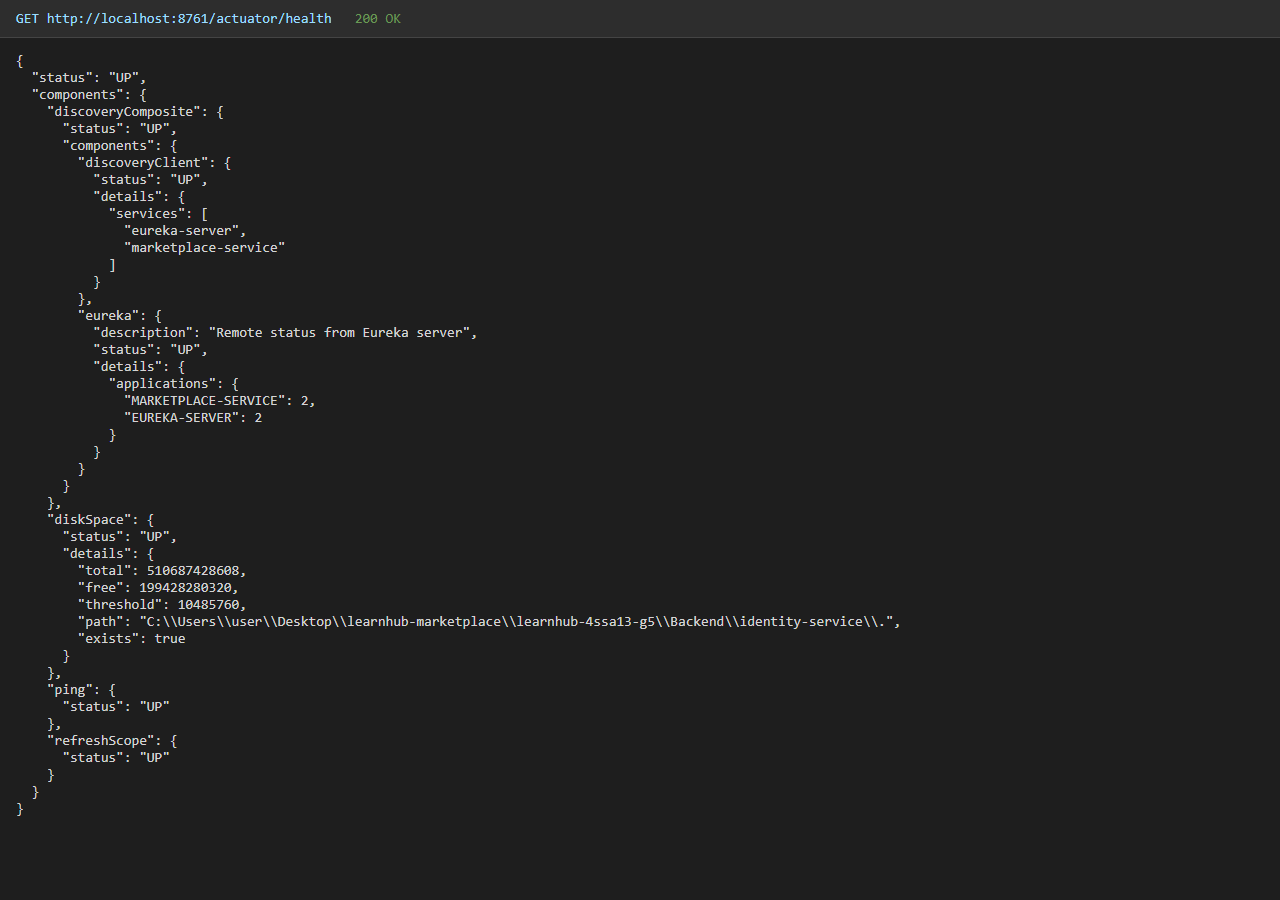
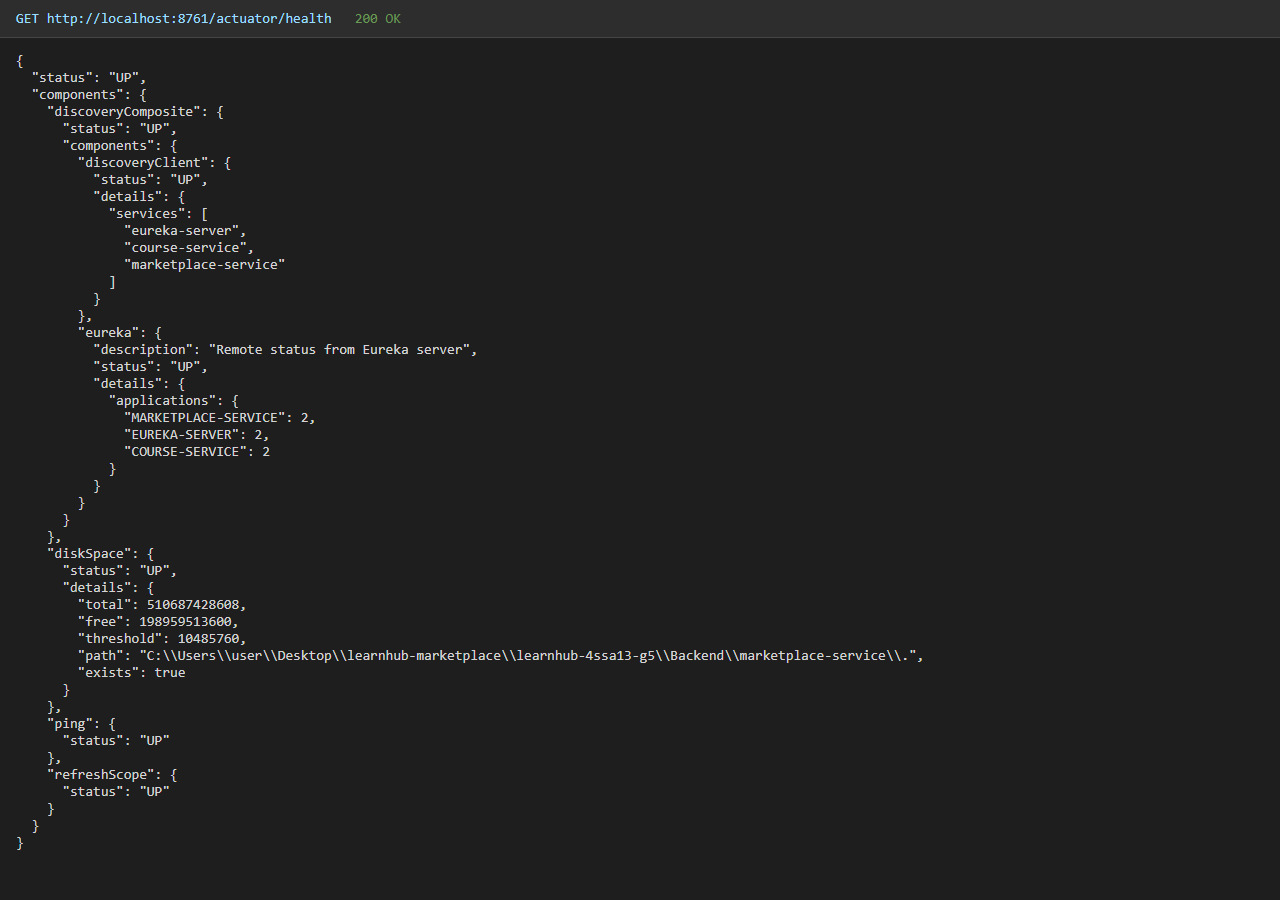
feat(integration): marketplace-service <-> course-service through Eureka
course-service (Nawres Soua), integration changes only:
- registers with both Eureka servers (8761 and 8762)
- pricing contract now includes the course status, so drafts cannot be bought
- Lombok declared in annotationProcessorPaths (needed to compile with Java 23+)

marketplace-service:
- "integration" profile: MySQL, both Eureka servers, real prices from course-service
  through OpenFeign with load balancing across its instances
- fix: Resilience4j settings applied as default configs; they targeted a name OpenFeign
  does not use, so the 1 s default timeout sent the first (cold) call to the 503 fallback

start-all.ps1: integration mode (2 Eureka + 2 course + 2 marketplace) or local mode.
README: integration flow, load-balancing evidence, refreshed Eureka and Actuator screenshots.

Changed region(s): [[0.0312, 0.56, 0.7188, 0.9022], [0.0625, 0.3111, 0.375, 0.5289], [0.0938, 0.2489, 0.2188, 0.3111]]

diff --git a/Backend/course-service/src/main/java/com/learnhub/course/service/impl/CourseServiceImpl.java b/Backend/course-service/src/main/java/com/learnhub/course/service/impl/CourseServiceImpl.java
@@ -97,7 +97,8 @@ public class CourseServiceImpl implements CourseService {
     @Transactional(readOnly = true)
     public CoursePricingDTO getCoursePricing(Integer id) {
         Course course = findCourseOrThrow(id);
-        return new CoursePricingDTO(course.getId(), course.getTitle(), course.getPrice());
+        return new CoursePricingDTO(course.getId(), course.getTitle(), course.getPrice(),
+                course.getStatus() == null ? null : course.getStatus().name());
     }
 
     @Override

diff --git a/Backend/course-service/src/main/java/com/learnhub/course/dto/CoursePricingDTO.java b/Backend/course-service/src/main/java/com/learnhub/course/dto/CoursePricingDTO.java
@@ -5,9 +5,12 @@ import java.math.BigDecimal;
 /**
  * DTO de pricing exposé à Marketplace Service via OpenFeign.
  * Endpoint : GET /api/courses/{id}/pricing
+ * <p>
+ * status (DRAFT / PUBLISHED / ARCHIVED) : le Marketplace refuse l'achat d'un cours non publié.
  */
 public record CoursePricingDTO(
         Integer id,
         String title,
-        BigDecimal price
+        BigDecimal price,
+        String status
 ) {}

diff --git a/README.md b/README.md
@@ -160,19 +160,38 @@ npm start
 ![Dashboard Eureka 8761](Documentation/Captures/eureka-dashboard-8761.png)
 
 - **Deux serveurs Eureka** répliqués : [http://localhost:8761](http://localhost:8761) et [http://127.0.0.1:8762](http://127.0.0.1:8762). Chacun réplique son registre vers l'autre (*DS Replicas* et *available-replicas* sur la capture), donc les deux affichent les mêmes services. Capture du second serveur : [eureka-dashboard-8762.png](Documentation/Captures/eureka-dashboard-8762.png).
-- **Deux instances de `marketplace-service`** (ports `8085` et `8095`), enregistrées en même temps.
+- **Les deux microservices les plus sollicités sont dupliqués** et visibles en même temps :
+  - `course-service` (Nawres SOUA) : ports `8082` et `8092` ;
+  - `marketplace-service` (Selim Hechmi) : ports `8085` et `8095`.
 - Les microservices déclarent les **deux** serveurs dans `eureka.client.service-url.defaultZone` : si l'un tombe, ils restent visibles sur l'autre.
 - Détails et marche à suivre pour rendre un service client Eureka : [Backend/eureka-server/README.md](Backend/eureka-server/README.md).
 
-### Lancer Eureka + marketplace sur un PC du groupe
+### Intégration marketplace-service ↔ course-service
 
-Prérequis : Java 17+ et Maven (aucune base à installer, H2 en mémoire).
+Avant de créer une commande, le marketplace demande le prix et le statut du cours à `course-service`, **sans connaître son adresse** :
+
+```
+marketplace-service ──(1) « où est course-service ? »──► Eureka (8761 / 8762)
+        │                                               └─► course-service:8082 , course-service:8092
+        └──(2) GET /api/courses/{id}/pricing (OpenFeign + load balancer) ──► l'une des deux instances
+```
+
+- Un cours **publié** est vendu au prix renvoyé par course-service. Un cours en **brouillon** est refusé (400).
+- Les appels sont **répartis entre les deux instances** de course-service. Exemple après 6 commandes : 5 appels traités par 8082 et 3 par 8092 (métrique `http.server.requests`, captures [8082](Documentation/Captures/loadbalancing-course-8082.png) · [8092](Documentation/Captures/loadbalancing-course-8092.png)).
+- Si course-service ne répond pas, un circuit breaker (Resilience4j) renvoie un 503 clair au lieu de bloquer.
+
+### Lancer l'architecture sur un PC du groupe
+
+Prérequis : Java 17+ et Maven. Pour le mode `integration`, MySQL doit tourner sur le port 3306 (Laragon / XAMPP, utilisateur `root` sans mot de passe). Les bases `db_marketplace` et `learnhub_course_db` sont créées automatiquement.
 
 ```powershell
 cd Backend
-powershell -ExecutionPolicy Bypass -File .\start-all.ps1   # 2 Eureka + 2 instances marketplace
-.\stop-all.ps1                                               # tout arrêter
+powershell -ExecutionPolicy Bypass -File .\start-all.ps1               # 2 Eureka + 2 course + 2 marketplace
+powershell -ExecutionPolicy Bypass -File .\start-all.ps1 -Mode local   # 2 Eureka + 2 marketplace, sans MySQL
+.\stop-all.ps1                                                           # tout arrêter
 ```
+
+Pour tester l'intégration : créer un cours dans course-service (Swagger : http://localhost:8082/swagger-ui.html), le publier (`PUT /api/courses/{id}/publish`), puis le commander dans le marketplace (Swagger : http://localhost:8085/swagger-ui.html, `POST /api/orders` avec `"courseIds": [id]`).
 
 ### Endpoints Actuator exposés
 
@@ -190,6 +209,8 @@ powershell -ExecutionPolicy Bypass -File .\start-all.ps1   # 2 Eureka + 2 instan
 | `/actuator/mappings` | [actuator-mappings-8085.png](Documentation/Captures/actuator-mappings-8085.png) |
 | `/actuator/loggers` | [actuator-loggers-8085.png](Documentation/Captures/actuator-loggers-8085.png) |
 | `/actuator/health` du serveur Eureka | [actuator-eureka-health-8761.png](Documentation/Captures/actuator-eureka-health-8761.png) |
+| `/actuator/health` de course-service (8082, 8092) | [8082](Documentation/Captures/course-health-8082.png) · [8092](Documentation/Captures/course-health-8092.png) |
+| `/api/courses/1/pricing` (contrat lu par le marketplace) | [course-pricing-8082.png](Documentation/Captures/course-pricing-8082.png) |
 
 ---
 

diff --git a/Backend/marketplace-service/README.md b/Backend/marketplace-service/README.md
@@ -112,6 +112,15 @@ remplace l'appel Feign.
 mvn spring-boot:run -Dspring-boot.run.profiles=standalone
 ```
 
+### Option I — Intégré avec course-service (validation Eureka avec Nawres)
+Eureka (:8761 et :8762), course-service (:8082 et :8092) et MySQL démarrés. Le prix et le statut des cours
+sont lus en vrai sur course-service (OpenFeign + Eureka, charge répartie entre ses instances) :
+```bash
+java -jar target/marketplace-service-1.0.0.jar --spring.profiles.active=integration
+java -jar target/marketplace-service-1.0.0.jar --spring.profiles.active=integration --server.port=8095
+```
+Ou tout d'un coup : `Backend/start-all.ps1` (mode `integration` par défaut).
+
 ### Option B — Dans l'architecture complète
 Eureka (:8761 et :8762), Config Server (:8888, optionnel), RabbitMQ (:5672), course-service (:8082) démarrés,
 le prix des cours est alors lu en vrai sur course-service via OpenFeign :
